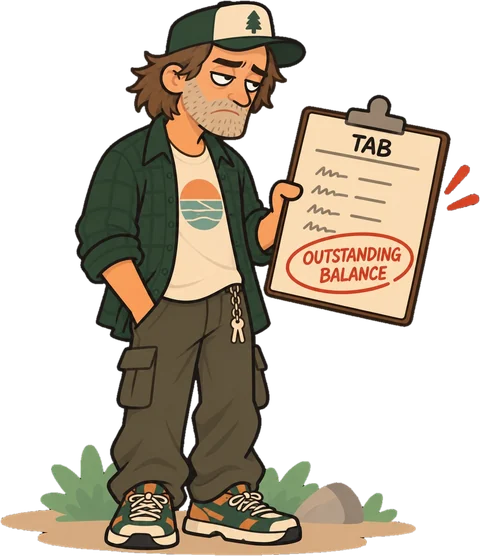
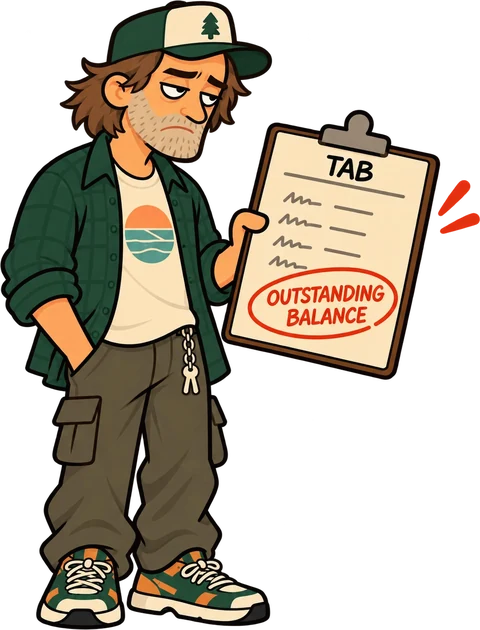
1.4: transparent Dale art, The Unprocessed Self, handbook and note
Replace the Dale Fail cutout with the supplied transparent art.

Add The Unprocessed Self (The Low Maintenance Orchestra, Sunspill
Records, 1977) as Dale-Fi song w3: a 45% find per Kitchen Garden visit,
the same odds as the Meditation Hall song, using the existing reveal and
companion card with the approved copy. Cached offline. The audio
(assets/audio/w3.m4a) and cover (assets/img/card-w3.webp) are not
supplied yet; the static and offline tests fail until they are added.

Handbook: the ranks table lists the Dale Fail as any debt at checkout.
Saffron's note gets the approved closing and a Kitchen Garden mention.

Claude-Session: https://claude.ai/code/session_01RxrdZXUFfxbVfQjyxVYyeZ

diff --git a/index.html b/index.html
@@ -555,7 +555,7 @@ input[type=range]:disabled { opacity: .35; }
 <body>
 <div id="loader" role="status" aria-live="polite"><div class="ld-dot"></div><p>Checking you in…</p></div>
 <div id="backdrop" aria-hidden="true"></div>
-<script>window.IMG = {"logo": "assets/img/logo.webp", "tagline": "assets/img/tagline.webp", "welcome": "assets/img/bg-welcome.webp", "header": "assets/img/bg-header.webp", "lineup": "assets/img/lineup.webp", "saffronCalm": "assets/img/saffron-calm.webp", "saffronSide": "assets/img/saffron-side.webp", "daleCalm": "assets/img/dale-calm.webp", "daleMad": "assets/img/dale-mad.webp", "daleCross": "assets/img/dale-crossword.webp", "vol1": "assets/img/vol1.webp", "vol2": "assets/img/vol2.webp", "vol3": "assets/img/vol3.webp", "vol4": "assets/img/vol4.webp", "saffronShock": "assets/img/saffron-shock.webp", "saffronPuzzled": "assets/img/saffron-puzzled.webp", "saffronJoy": "assets/img/saffron-joy.webp", "daleCash": "assets/img/dale-cash.webp", "daleTab": "assets/img/dale-tab.webp", "it_burner": "assets/img/it-burner.webp", "it_charger": "assets/img/it-charger.webp", "it_wifi": "assets/img/it-wifi.webp", "it_wine": "assets/img/it-wine.webp", "it_doritos": "assets/img/it-doritos.webp", "it_coke": "assets/img/it-coke.webp", "it_choc": "assets/img/it-choc.webp", "it_espresso": "assets/img/it-espresso.webp", "it_petagotchi": "assets/img/it-petagotchi.webp", "card_s0": "assets/img/card-s0.webp", "card_w0": "assets/img/card-w0.webp", "card_w1": "assets/img/card-w1.webp", "card_w2": "assets/img/card-w2.webp"};</script>
+<script>window.IMG = {"logo": "assets/img/logo.webp", "tagline": "assets/img/tagline.webp", "welcome": "assets/img/bg-welcome.webp", "header": "assets/img/bg-header.webp", "lineup": "assets/img/lineup.webp", "saffronCalm": "assets/img/saffron-calm.webp", "saffronSide": "assets/img/saffron-side.webp", "daleCalm": "assets/img/dale-calm.webp", "daleMad": "assets/img/dale-mad.webp", "daleCross": "assets/img/dale-crossword.webp", "vol1": "assets/img/vol1.webp", "vol2": "assets/img/vol2.webp", "vol3": "assets/img/vol3.webp", "vol4": "assets/img/vol4.webp", "saffronShock": "assets/img/saffron-shock.webp", "saffronPuzzled": "assets/img/saffron-puzzled.webp", "saffronJoy": "assets/img/saffron-joy.webp", "daleCash": "assets/img/dale-cash.webp", "daleTab": "assets/img/dale-tab.webp", "it_burner": "assets/img/it-burner.webp", "it_charger": "assets/img/it-charger.webp", "it_wifi": "assets/img/it-wifi.webp", "it_wine": "assets/img/it-wine.webp", "it_doritos": "assets/img/it-doritos.webp", "it_coke": "assets/img/it-coke.webp", "it_choc": "assets/img/it-choc.webp", "it_espresso": "assets/img/it-espresso.webp", "it_petagotchi": "assets/img/it-petagotchi.webp", "card_s0": "assets/img/card-s0.webp", "card_w0": "assets/img/card-w0.webp", "card_w1": "assets/img/card-w1.webp", "card_w2": "assets/img/card-w2.webp", "card_w3": "assets/img/card-w3.webp"};</script>
 <div id="app"></div>
 <div id="toasts" aria-live="polite"></div>
 <div id="veil" aria-hidden="true"></div>
@@ -1332,6 +1332,7 @@ const TRACKS = [
   { id: 'w0', title: 'Wellness Lounge Groove', artist: 'TORiTiA', hint: "Guide Saffron's volunteers carry the good stuff. Get away from them." },
   { id: 'w1', title: 'meditate this way', artist: 'TORiTiA', hint: 'Somebody in the meditation hall has good taste.' },
   { id: 'w2', title: 'Late Night Record Shop', artist: 'TORiTiA', hint: 'Dale keeps a burned CD in his van.' },
+  { id: 'w3', title: 'The Unprocessed Self', artist: 'TORiTiA', hint: 'Turns up somewhere on a retreat.' },
 ];
 const TBYID = Object.fromEntries(TRACKS.map(t => [t.id, t]));
 /* Companion cards: the in-world liner notes for each recording, shown from the Dale-Fi and when you first find one.
@@ -1345,6 +1346,8 @@ const CARDS = {
     review: 'An exuberant collision of dance-floor funk and New Age optimism, with glittering keys and a bassline that refuses to sit still. The Higher Frequencies’ brief spiritual reinvention produced some of their most assured playing.' },
   w2: { art: 'card_w2', title: 'Late Night Record Shop', artist: 'Unknown', meta: 'CD-R · Date Unknown · Jazzy Hip-Hop / Downtempo',
     review: 'Dusty breaks, warm keys, and understated vibraphone give this mysterious recording an effortless after-hours charm. Various copies have been attributed to Jake’s Bait Shop, Milton and the Undertones, and Drunken Unk. None has been authenticated. All three have their advocates.' },
+  w3: { art: 'card_w3', title: 'The Unprocessed Self', artist: 'The Low Maintenance Orchestra', meta: 'Sunspill Records 45 · 1977 · Funk',
+    review: 'A gloriously filthy slice of California funk from a band whose only documented live appearances were at the 1977 and 1978 Folsom County Fair, on the second stage. The bassline is practically geological. Their subsequent disappearance remains one of the great minor injustices of American music.' },
 };
 
 /* What's New, written by Guide Saffron: the permanent release history under Options. Newest first.
@@ -1361,7 +1364,8 @@ const NOTES = [
       'Dear Guests,',
       'Financial attachments may persist beyond the completion of your retreat. Guests are encouraged to resolve all outstanding interpersonal balances before departure.',
       'We are also pleased to share that your journal will now remain available after checkout, in its entirety. Every step, every exchange, every moment you may have preferred to forget has been gently preserved for your reflection.',
-      'Please remember that departure is a privilege, not a formality. We trust you will leave nothing unresolved.',
+      'Guests tending the Kitchen Garden may notice that it has begun to yield more than kale. We ask that you receive whatever you find there as you would any harvest: gratefully, and without asking where it came from.',
+      'We encourage you to depart with the same openness with which you arrived. Unresolved obligations have a way of accompanying us.',
     ],
     sign: ['With care,', 'Guide Saffron'],
   },
@@ -1456,6 +1460,8 @@ function songEvents() {
   const P = PLACES[S.loc];
   if (!hasSong('w1') && P.name === 'Meditation Hall' && Math.random() < 0.45) {
     unlockSong('w1', 'The sound-bath guy left his laptop open on the gong. You sideload a song.');
+  } else if (!hasSong('w3') && P.name === 'Kitchen Garden' && Math.random() < 0.45) {
+    unlockSong('w3', 'Someone has been using a 1977 funk record to keep the seed packets flat.');
   } else if (P.van && !hasSong('w2') && !S.cdHint && !queue.length) {
     S.cdHint = true;
     setTimeout(() => toast("Something good is playing in Dale's van. He'll sell you the CD.", 'song', 5500), 500);
@@ -1944,7 +1950,7 @@ function overHTML() {
     : used() > 0 ? 'The front desk confiscated what was left in your cushion. Nonattachment.' : 'You leave with an empty cushion and a full heart.';
   return `<div class="over${tab ? ' tab' : ''}">
     <h1>${head}</h1>
-    ${tab ? `<img class="tabart" src="${IMG.daleTab}" width="480" height="556" alt="Dale, disappointed, holding a clipboard marked TAB with OUTSTANDING BALANCE circled in red">` : ''}
+    ${tab ? `<img class="tabart" src="${IMG.daleTab}" width="480" height="630" alt="Dale, disappointed, holding a clipboard marked TAB with OUTSTANDING BALANCE circled in red">` : ''}
     <p class="lede">${lede}</p>
     ${tab ? `<p class="lede">Dale still gave you a ride to the airport. He didn't say a word the entire way.</p>` : ''}
     <div class="ledger">
@@ -2292,14 +2298,14 @@ function modeSheet() {
 }
 /* Handbook sections the latest feature release changed get a quiet "New · vX.Y" or "Updated · vX.Y" beside the heading.
    Replace this with each feature release; marks only show while version matches GAME_VERSION, so stale ones never linger. */
-const HB_MARKS = { version: '1.4', updated: ['The goal', 'Reading the screen', 'Retreat lengths and scoring'], added: [] };
+const HB_MARKS = { version: '1.4', updated: ['The goal', 'Reading the screen', 'Retreat lengths and scoring', 'The Dale-Fi'], added: [] };
 function handbookSheet() {
   const mark = title => HB_MARKS.version !== GAME_VERSION ? '' : HB_MARKS.added.includes(title) ? `New · v${GAME_VERSION}` : HB_MARKS.updated.includes(title) ? `Updated · v${GAME_VERSION}` : '';
   const sec = (title, body, open) => `<details class="hb"${open ? ' open' : ''}><summary>${title}${mark(title) ? `<span class="hbmark">${mark(title)}</span>` : ''}</summary><div class="hbb">${body}</div></details>`;
   const goods = ITEMS.map(it => `<tr><td>${it.name}</td><td class="num">${fmt(it.min)} to ${fmt(it.max)}</td></tr>`).join('');
   const lengths = MODES.map(m => `<tr><td>${m.name}</td><td class="num">${m.days}</td><td class="num">${pct(m.rate)}</td></tr>`).join('');
   const kk = n => n >= 1e6 ? `$${+(n / 1e6).toFixed(1)}M` : n >= 1e3 ? `$${+(n / 1e3).toFixed(0)}k` : `$${n}`;
-  const ranks = RANKS.map(([, name], i) => `<tr><td>${name}</td>${i === 0 ? `<td class="num" colspan="${MODES.length}">below $0 at any length</td>` : MODES.map(m => `<td class="num">${kk(m.ranks[i - 1])}</td>`).join('')}</tr>`).join('');
+  const ranks = RANKS.map(([, name], i) => `<tr><td>${i === 0 ? 'Dale Fail: Owes Dale forever' : name}</td>${i === 0 ? `<td class="num" colspan="${MODES.length}">any debt at checkout, at any length</td>` : MODES.map(m => `<td class="num">${kk(m.ranks[i - 1])}</td>`).join('')}</tr>`).join('');
   const body = [
     sec('The goal', `
       <p>You're a guest at a silent digital detox in Big Sur. The brochure bans phones, wifi, sugar and snacks. You sell them anyway.</p>
@@ -2361,9 +2367,9 @@ function handbookSheet() {
     sec('Retreat lengths and scoring', `
       <p>Shorter retreats charge more per hour, so your debt grows by about the same amount whatever length you pick. The pace of trouble scales too.</p>
       <table class="hbt"><thead><tr><th>Retreat</th><th class="num">Days</th><th class="num">Dale per hour</th></tr></thead><tbody>${lengths}</tbody></table>
-      <p>Your takeaway at checkout depends on your net worth and how long you stayed. You need at least this much:</p>
+      <p>Your takeaway at checkout depends on what you owe Dale, your net worth and how long you stayed. You need at least this much:</p>
       <div class="hbscroll"><table class="hbt ranks"><thead><tr><th>Takeaway</th><th class="num">Weekend</th><th class="num">5 days</th><th class="num">Week</th><th class="num">30 days</th></tr></thead><tbody>${ranks}</tbody></table></div>
-      <p>Every takeaway assumes you're square with Dale. Owe him anything at checkout, even a dollar, and none of them apply.</p>
+      <p>The rest only apply if you're square with Dale. Owe him anything at checkout, even a dollar, and it's the first row, whatever your net worth.</p>
       <p>A guest who wings it usually leaves broke or as a side hustle sage. Buying a yurt usually takes a plan, and opening your own retreat takes a very good week. Sign the guestbook at the end to keep a top ten for each length.</p>`),
     sec('The Dale-Fi', `
       <p>The music-note icon in the header opens your player. Every retreat starts with the retreat's own spa track, and ${TRACKS.length - 1} more songs are out there. The player gives you a hint for each one you haven't found. A dot on the icon means something new turned up. Tap a song's cover to read its companion card.</p>

diff --git a/sw.js b/sw.js
@@ -1,9 +1,9 @@
 // unplugged service worker: caches the whole retreat so it plays with no signal.
 // The version is generated from the files' contents; rebuilding with any change makes a new one.
-const VERSION = 'unplugged-1.4-tab1';
+const VERSION = 'unplugged-1.4-tab2';
 const FONTS = 'unplugged-fonts';
-const CORE = ["./", "index.html", "manifest.webmanifest", "favicon.svg", "apple-touch-icon.png", "icon-192.png", "icon-512.png", "assets/img/logo.webp", "assets/img/tagline.webp", "assets/img/bg-welcome.webp", "assets/img/bg-header.webp", "assets/img/lineup.webp", "assets/img/saffron-calm.webp", "assets/img/saffron-side.webp", "assets/img/dale-calm.webp", "assets/img/dale-mad.webp", "assets/img/dale-crossword.webp", "assets/img/vol1.webp", "assets/img/vol2.webp", "assets/img/vol3.webp", "assets/img/vol4.webp", "assets/img/saffron-shock.webp", "assets/img/saffron-puzzled.webp", "assets/img/saffron-joy.webp", "assets/img/dale-cash.webp", "assets/img/it-burner.webp", "assets/img/it-charger.webp", "assets/img/it-wifi.webp", "assets/img/it-wine.webp", "assets/img/it-doritos.webp", "assets/img/it-coke.webp", "assets/img/it-choc.webp", "assets/img/it-espresso.webp", "assets/img/it-petagotchi.webp", "assets/img/map-bg.webp", "assets/img/card-s0.webp", "assets/img/card-w0.webp", "assets/img/card-w1.webp", "assets/img/card-w2.webp", "assets/img/dale-tab.webp"];
-const AUDIO = ["assets/audio/s0.m4a", "assets/audio/w0.m4a", "assets/audio/w1.m4a", "assets/audio/w2.m4a", "assets/audio/saffron.m4a", "assets/audio/square.m4a", "assets/audio/win-moment.m4a", "assets/audio/win-thats.m4a", "assets/audio/checkout.m4a", "assets/audio/dale-tab.m4a"];
+const CORE = ["./", "index.html", "manifest.webmanifest", "favicon.svg", "apple-touch-icon.png", "icon-192.png", "icon-512.png", "assets/img/logo.webp", "assets/img/tagline.webp", "assets/img/bg-welcome.webp", "assets/img/bg-header.webp", "assets/img/lineup.webp", "assets/img/saffron-calm.webp", "assets/img/saffron-side.webp", "assets/img/dale-calm.webp", "assets/img/dale-mad.webp", "assets/img/dale-crossword.webp", "assets/img/vol1.webp", "assets/img/vol2.webp", "assets/img/vol3.webp", "assets/img/vol4.webp", "assets/img/saffron-shock.webp", "assets/img/saffron-puzzled.webp", "assets/img/saffron-joy.webp", "assets/img/dale-cash.webp", "assets/img/it-burner.webp", "assets/img/it-charger.webp", "assets/img/it-wifi.webp", "assets/img/it-wine.webp", "assets/img/it-doritos.webp", "assets/img/it-coke.webp", "assets/img/it-choc.webp", "assets/img/it-espresso.webp", "assets/img/it-petagotchi.webp", "assets/img/map-bg.webp", "assets/img/card-s0.webp", "assets/img/card-w0.webp", "assets/img/card-w1.webp", "assets/img/card-w2.webp", "assets/img/dale-tab.webp", "assets/img/card-w3.webp"];
+const AUDIO = ["assets/audio/s0.m4a", "assets/audio/w0.m4a", "assets/audio/w1.m4a", "assets/audio/w2.m4a", "assets/audio/saffron.m4a", "assets/audio/square.m4a", "assets/audio/win-moment.m4a", "assets/audio/win-thats.m4a", "assets/audio/checkout.m4a", "assets/audio/dale-tab.m4a", "assets/audio/w3.m4a"];
 const FONT_CSS = "https://fonts.googleapis.com/css2?family=Figtree:wght@400;500;600;700&family=Playpen+Sans:wght@400;500;600;700&family=VT323&display=swap";
 
 self.addEventListener('install', event => {

diff --git a/tools/test/README.md b/tools/test/README.md
@@ -27,7 +27,7 @@ Node 18 or later, plus Playwright with Chromium. Cloud sessions already have bot
 | Suite | Runs in | Covers |
 | --- | --- | --- |
 | `static` | no browser | scripts parse; every image and song exists; `sw.js` lists every asset and only real files; cache `VERSION` changed if cached files changed (skipped when the base branch isn't available) |
-| `smoke` | desktop Chromium | boot; every retreat length starts correctly; walking spends hours and compounds Dale's debt; quiet hours and resting; checkout scoring; What's New and the version label (Options and in-game menu); handbook section marks; journey map taps, target size and labels; Dale-Fi companion cards, credits, every song-acquisition path, upgrades and collection persistence |
+| `smoke` | desktop Chromium | boot; every retreat length starts correctly; walking spends hours and compounds Dale's debt; quiet hours and resting; checkout scoring; What's New and the version label (Options and in-game menu); handbook section marks; journey map taps, target size and labels; Dale-Fi companion cards, credits, every song-acquisition path (including the Kitchen Garden find), upgrades and collection persistence |
 | `trading` | desktop Chromium | buy limits (cash and space), selling and cost basis, goods not traded here, price ranges, Dale's van (pay, borrow cap, stash), cushion upgrade |
 | `encounters` | desktop Chromium | Saffron can't be dismissed; failed and successful escapes; hand over; donate; empty cushion; snapping at zero zen; decoys (pulled people stay gone, fanny pack, endurance if present); decoy offer prices and cap |
 | `debt` | desktop Chromium | any debt at checkout, even $1, is the Dale Fail at every length (wealthy, modest, broke, negative net worth); the original takeaways with no debt; could-pay and couldn't-pay copy; snapping unchanged; guestbook keeps real net worth; report card; balance reminders without announcing the ending; Dale's notes (balance, zen, journal, stop when paid, threshold); the complete journal after checkout, last 20 during play; new runs start clean |

diff --git a/docs/status.md b/docs/status.md
@@ -17,7 +17,7 @@ As of 2026-10-17. Live version: **1.3** (`main` at `83203fe`, deployed to GitHub
 
 | Item | Branch | Status | Blocked on | Next action |
 | --- | --- | --- | --- | --- |
-| Release 1.4: Dale's Outstanding Balance (any debt at checkout is the Dale Fail; ending art and cue; balance reminders; complete journal after checkout) | `claude/optimistic-dijkstra-9bdhx3` | Owner's final-review adjustments made and tested. | Creative approval of Saffron's note; approval of The Unprocessed Self's acquisition method, plus its audio and card. | Owner reviews; then add the track, merge and release. |
+| Release 1.4: Dale's Outstanding Balance (Dale Fail on any debt at checkout; complete post-game journal; transparent Dale art; new Dale-Fi song The Unprocessed Self, found in the Kitchen Garden) | `claude/optimistic-dijkstra-9bdhx3` | Implemented and tested with stand-in assets. Blocks release: `assets/audio/w3.m4a` and `assets/img/card-w3.webp` not yet supplied (the static and offline tests fail until they are). | The two assets; creative approval of Saffron's note; iPhone checks. | Add the assets, re-run the full suite, owner reviews, merge and release. |
 | Stage 01: market scarcity (handoff 01) | `stage-01-market-scarcity` | Provisionally approved. Built, reviewed, 3 commits, behind `main`. | Final text of Saffron's "On the Nature of Abundance"; the decision whether Stage 02 ships with it. | Once decided: bring `main` in, docs accuracy check, release. |
 | Stage 02: zen as composure (handoff 02) | `stage-02-zen-composure` (contains Stage 01) | Proposed. Built and reviewed; numbers not approved. | Owner decisions listed in `decisions.md` under Stage 02. | Owner decides; then integrate with or after Stage 01. |
 
